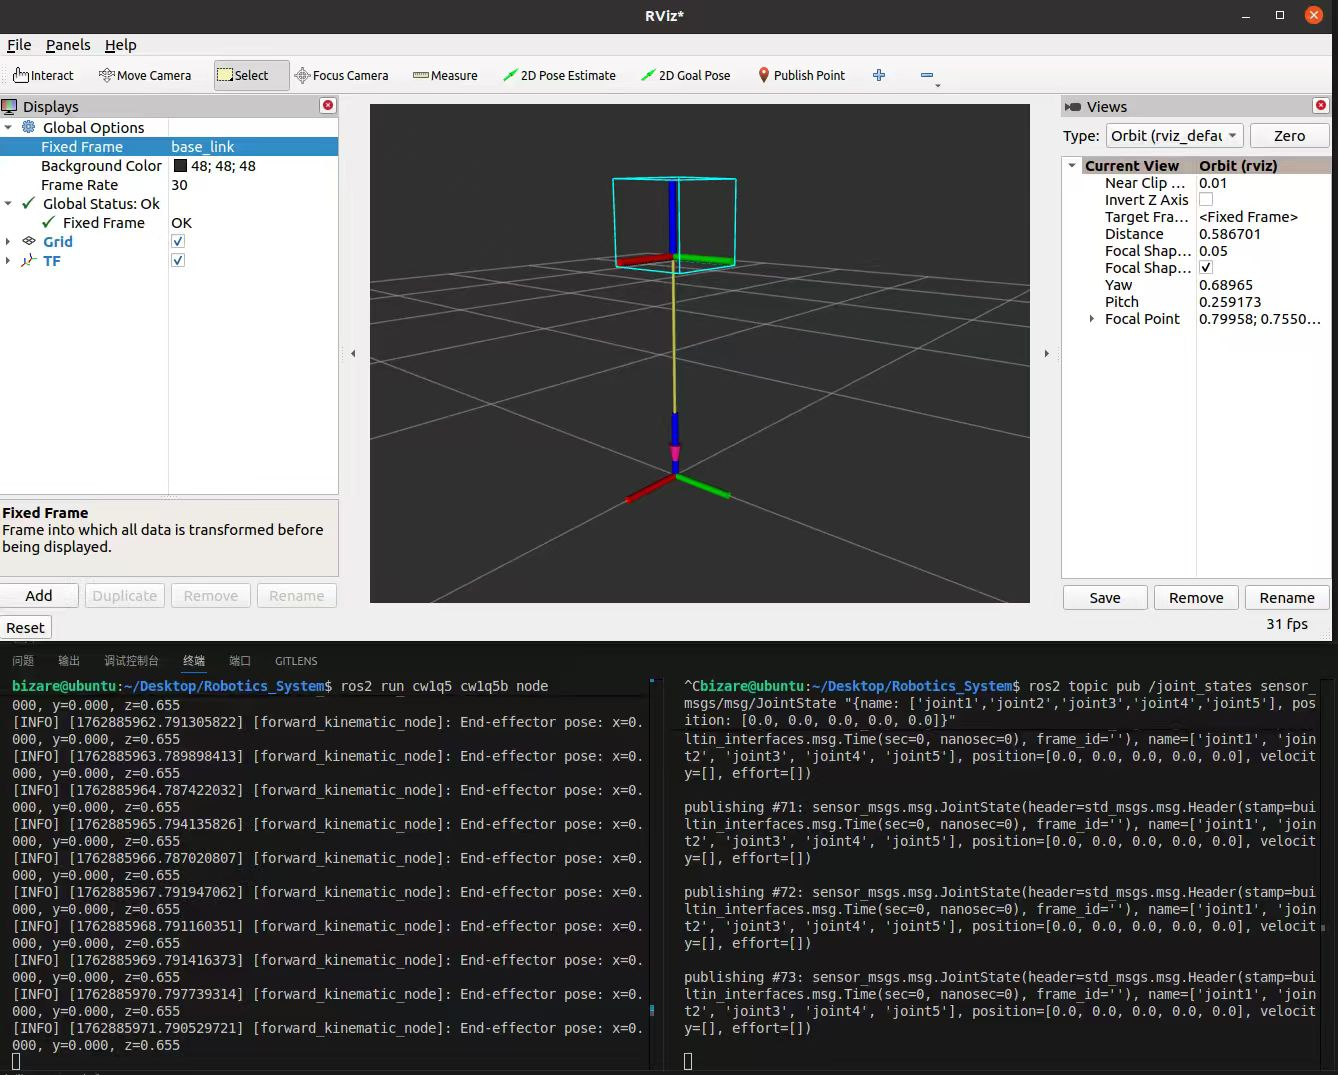
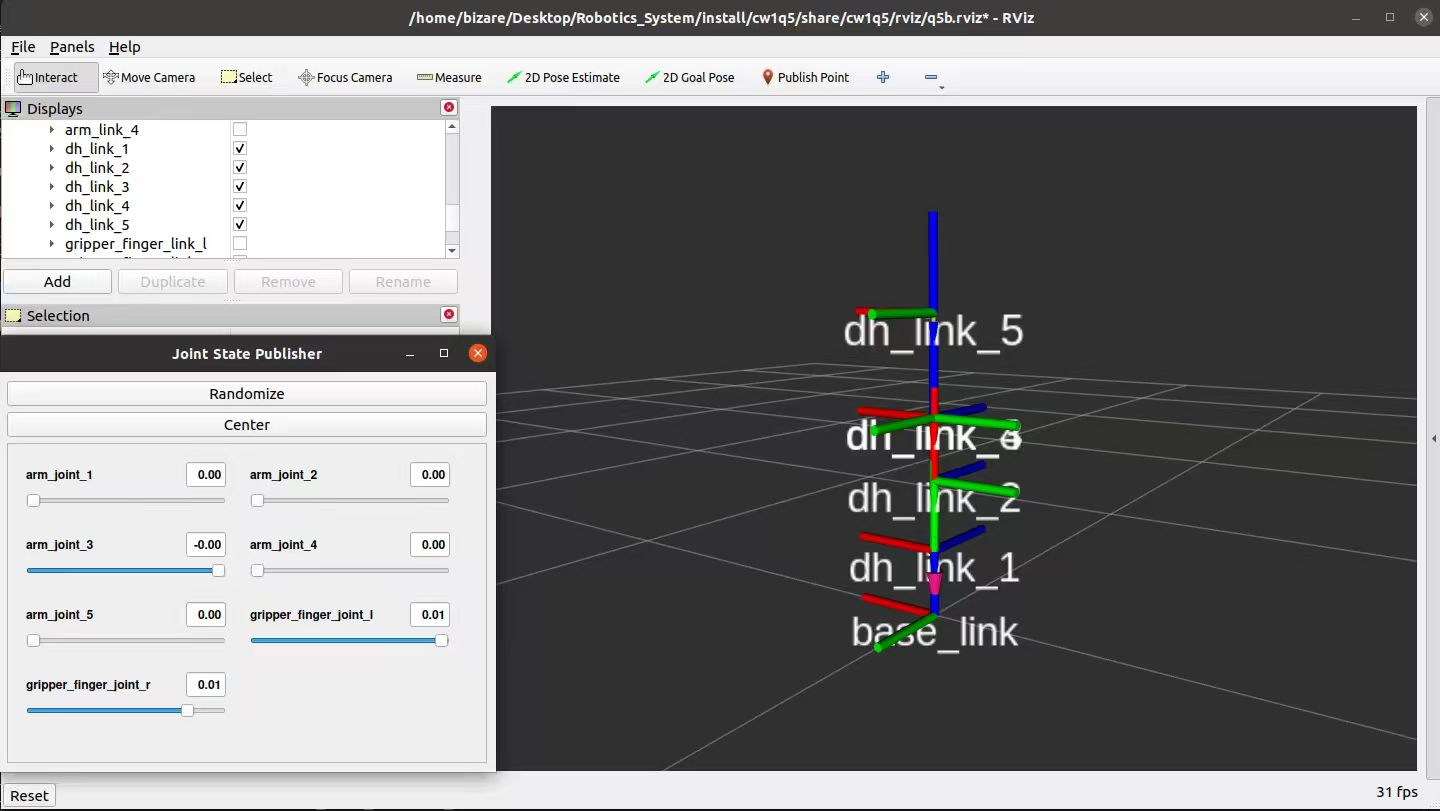
finish cw1q5c
yeah

diff --git a/cw1q5/cw1q5/cw1q5b_node.py b/cw1q5/cw1q5/cw1q5b_node.py
@@ -116,7 +116,6 @@ def forward_kinematics(dh_dict, joints_readings, up_to_joint=5):
         
         # 累积乘法：
         T = T.dot(T_i)
-
     # ╔════════════════════════════════════════════════════════════════════════╗
     # ╚════════════════════════════════════════════════════════════════════════╝
     
@@ -149,13 +148,10 @@ class ForwardKinematicsNode(Node):
         # ╚════════════════════════════════════════════════════════════════════════╝
         
         # 获取关节数量
-        num_joints = len(youbot_dh_parameters['a'])
+        num_joints = len(youbot_dh_parameters['alpha'])
         
         # 提取关节角度（转换为列表）
         joints_readings = list(joint_msg.position[0:num_joints])
-        
-        # 定义坐标系名称
-        parent_frame = 'base_link'
         
         # 逐个计算并广播每个关节的TF
         for i in range(num_joints):
@@ -173,7 +169,7 @@ class ForwardKinematicsNode(Node):
             transform.header.stamp = self.get_clock().now().to_msg()
             
             # 设置父子坐标系
-            transform.header.frame_id = parent_frame
+            transform.header.frame_id = 'base_link'
             transform.child_frame_id = 'link_'+ str(i+1)
             
             # 填充平移信息（从变换矩阵的第4列提取）

diff --git a/cw.md b/cw.md
@@ -613,8 +613,73 @@ The node subscribes to /joint_states, computes transformations, and publishes th
 RViz visualization confirms that the implementation is correct and functions as expected.
 
 
-
-## c
+## c: Derivation of Standard DH Parameters from the URDF Model
 ![q5c](pic/q5_c.png)
+- 你要从 youbot_arm_only.urdf.xacro 文件中提取机械臂每个关节的几何关系；
+- 根据这些几何数据推导出标准 DH 参数（a, α, d, θ）；
+- 用表格列出结果；
+- 简单解释一下这些参数是怎么从 URDF 推出来的。
+
+在`robot_description/youbot_description/robots/youbot_arm_only.urdf.xacro`并没有直接描述arm的相关信息，而是作为top-level file，其中以下代码定义了机械臂模块
+```xml
+  <!-- youbot arm -->
+  <xacro:include filename="$(find youbot_description)/urdf/youbot_arm/arm.urdf.xacro" />
+```
+其中`urdf/youbot_arm/arm.urdf.xacro`定义了关键的信息在`youbot_arm`模块中，如下
+```xml
+<xacro:macro name="youbot_arm" params="parent name *origin">
+  ...
+</xacro:macro>
+```
+
+基于可以得到以下信息
+
+|   Axis (x,y,z)   |   Original (x,y,z)  |   RPY (x,y,z)     |
+|:----------------:|:-------------------:|:-----------------:|
+|      0, 0, -1    |   0.024, 0, 0.096   |   0, 0     , 170  |
+|      0, 1, 0     |   0.033, 0, 0.019   |   0, -65   , 0    |
+|      0, 1, 0     |   0,     0, 0.155   |   0, 146   , 0    |
+|      0, 1, 0.    |   0,     0, 0.135   |   0, -102.5, 0    |
+|      0, 0, -1    |  -0.002, 0, 0.130   |   0, 0     , 167.5|
+
+
+在 URDF 中，axis 表示关节在 joint 坐标系中的旋转轴，因此在分析关节运动方向时，需要结合 joint frame 的实际方向进行判断。origin 则定义了 joint 坐标系相对于父坐标系的固定变换，包括平移 xyz 与绕父坐标系的 RPY 旋转。
+
+标准 DH 参数采用如下固定变换顺序：
+$$
+T_i^{i+1}=R_z(\theta)\;T_z(d)\;T_x(a)\;R_x(\alpha),
+$$
+而 URDF 的 <origin> 使用的顺序为：
+$$
+T = \text{Trans}(xyz)\;R_z(yaw)\;R_y(pitch)\;R_x(roll).
+$$
+由于两者的计算顺序不同，因此无法将 URDF 中的平移或旋转项直接对应为 DH 参数（例如不能直接把 origin 的 z 平移当作 DH 中的 d）。必须根据坐标系的相对方向和姿态进行几何分析后，才能正确确定 DH 变量。
+
+综上所述，根据上述宏中定义的内容可以得到 DH-table 为：
+
+
+
+| Joint (i) |  θᵢ *(Joint Angle)*  | dᵢ *(m)* | aᵢ *(m)* | αᵢ *(rad)* 
+|:---------:|:--------------------:|:---------:|:---------:|:------------:
+| 1         | $\theta_1 $        | 0.096     | 0.033     | $+\pi/2$ 
+| 2         | $\theta_2 + \pi/2$ | 0.019     | 0.155     | 0 
+| 3         | $\theta_3$         | 0         | 0.135     | 0 
+| 4         | $\theta_4-\pi/2$   | 0         | 0         | $-\pi/2$ 
+| 5         | $\theta_5$         | 0.218     | -0.002    | 0 
+
+同时可知joint offsets和joint readings polarity为
+
+| Joint (i) |  offset  | joint readings polarity
+|:---------:|:--------------------:|:---------:
+| 1         | $170^\circ$      | -1    
+| 2         | $-65^\circ$     | 1   
+| 3         | $146^\circ$      | 1        
+| 4         | $-102.5^\circ$   | 1         
+| 5         | $167.5^\circ$    | -1    
+
+
 ## d
 ![q5d](pic/q5_d.png)
+code部分如`cw1q5/cw1q5d.py`部分所示，运行结果如下
+
+
